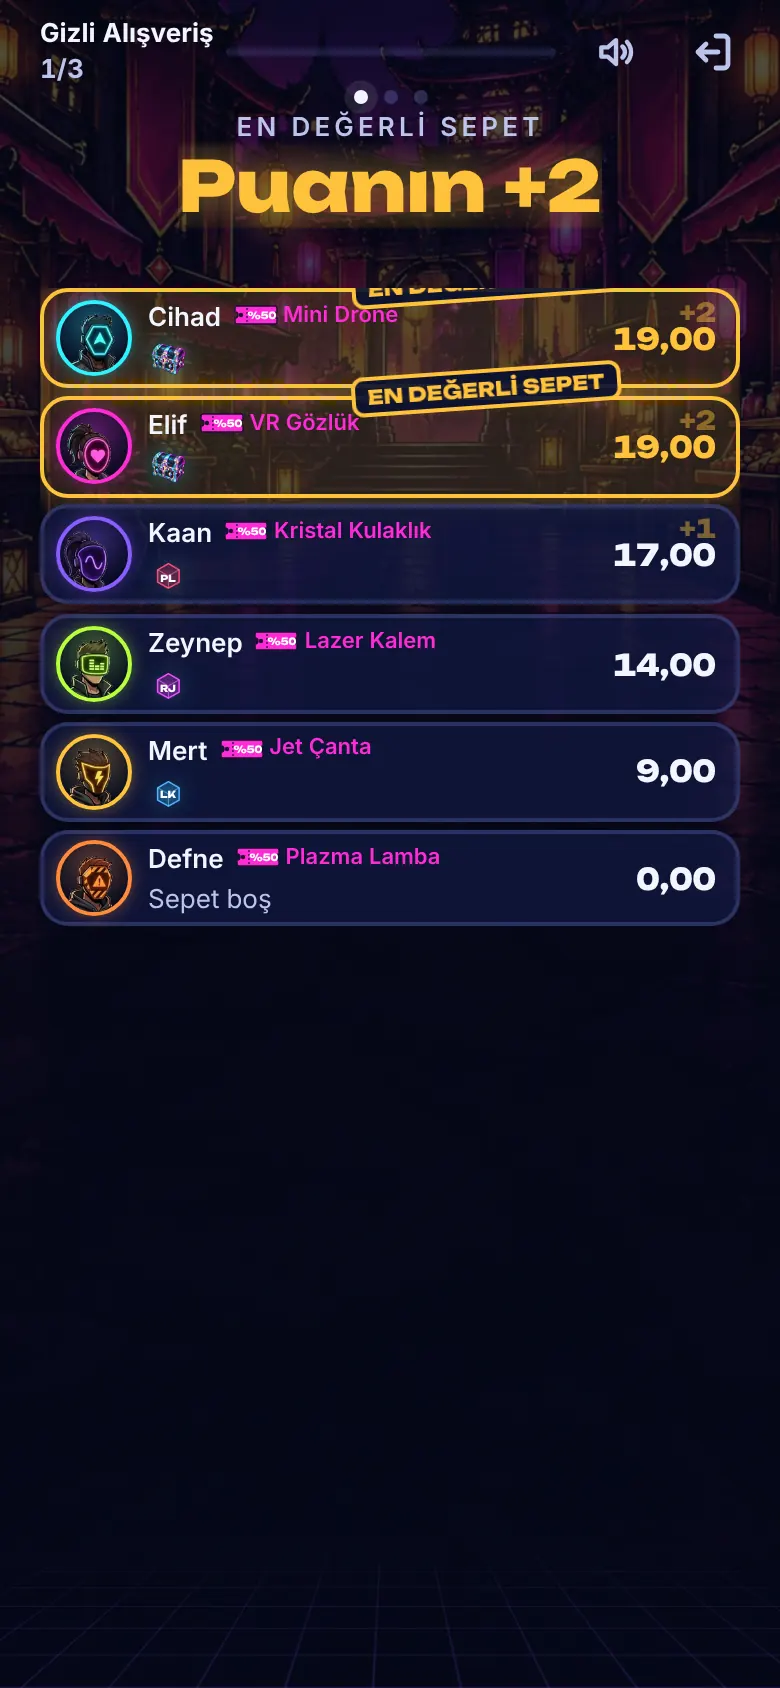
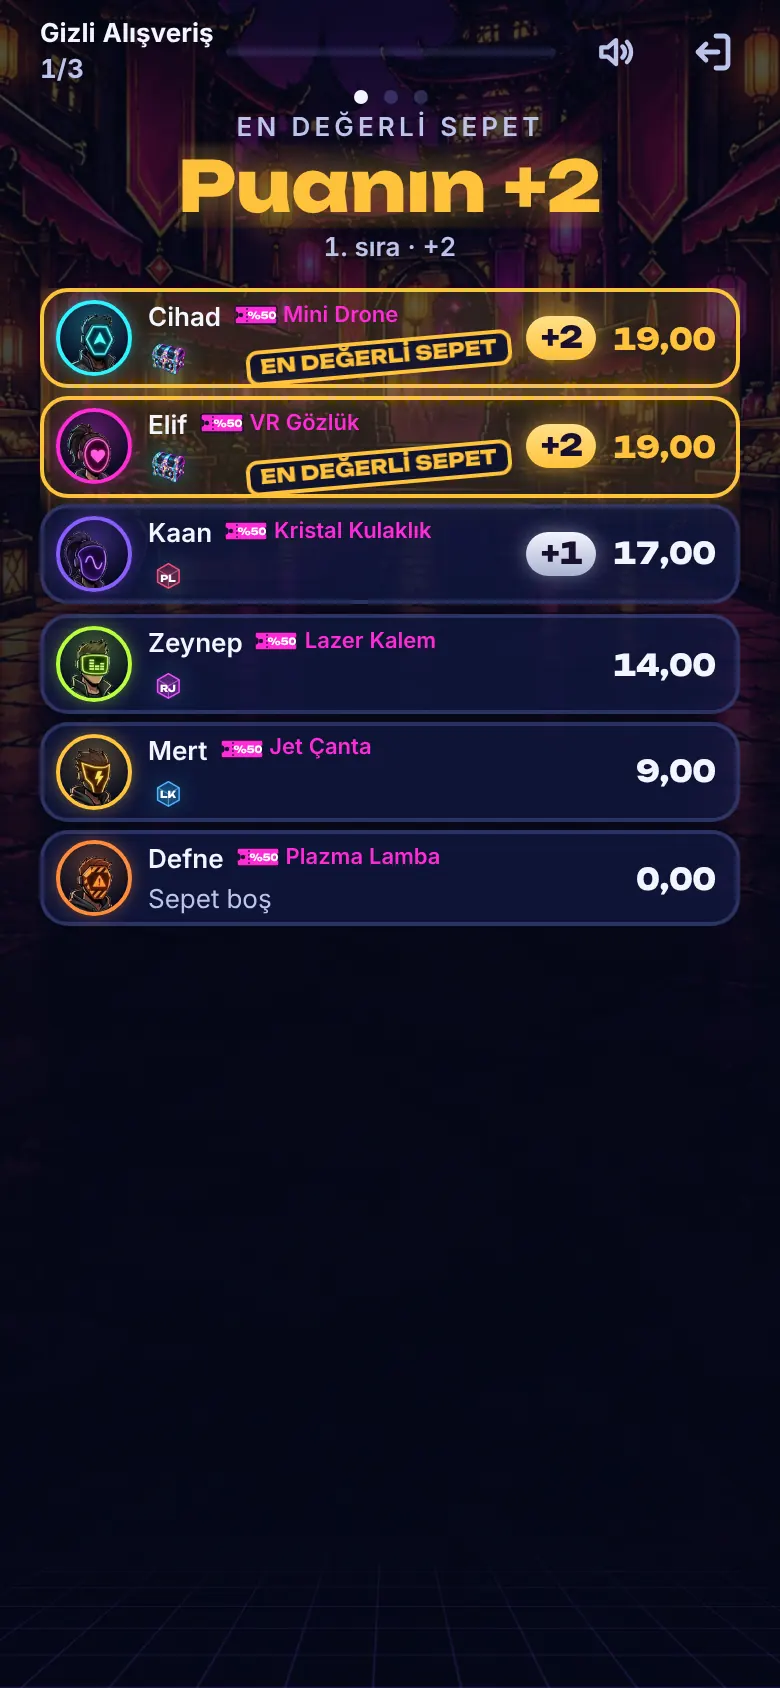
Gizli Alışveriş sonucu: okunur damga, puan rozetleri, kendi sıran
- "EN DEĞERLİ SEPET" damgası satırın içinde, ürünlerin yanında (değerin solunda); kırpılmaz, yazıları örtmez
- Satırda puan rozeti: +2 altın, +1 gümüş, 0 için boş; puan uçuşundan sonra da net
- Üst başlığın altında kendi sıran ve puanın ("4. sıra · puan yok" / "1. sıra · +2")
- Sonuç wiki ekran görüntüleri yenilendi

Claude-Session: https://claude.ai/code/session_01Seery4hrxKSJhpe6D1b9KA

Changed region(s): [[0.3077, 0.1232, 0.8, 0.3697], [0.8923, 0.154, 0.9231, 0.2773], [0.8, 0.3081, 0.9231, 0.3389]]

diff --git a/apps/client/src/games/gizli-alisveris/gizli-alisveris.css b/apps/client/src/games/gizli-alisveris/gizli-alisveris.css
@@ -188,6 +188,11 @@ button.aitem:active:not(:disabled) {
   line-height: 1.2;
   animation: a-pop 320ms var(--ease) both;
 }
+.ares__sub {
+  font-size: var(--fs-13);
+  font-weight: 600;
+  color: var(--text-dim);
+}
 .ares__val[data-k="gold"] {
   color: var(--gold);
   text-shadow: 0 0 22px rgba(255, 194, 59, 0.7);
@@ -328,14 +333,6 @@ button.aitem:active:not(:disabled) {
   font-variant-numeric: tabular-nums;
 }
 .arow[data-win="1"] .arow__val {
-  color: var(--gold);
-}
-.arow__pts {
-  position: absolute;
-  right: 0;
-  top: -12px;
-  font-style: normal;
-  font-size: var(--fs-13);
   color: var(--gold);
 }
 @keyframes a-row {
@@ -1124,35 +1121,59 @@ button.aitem:active:not(:disabled) {
   background: var(--magenta);
   border: 1px solid #1a1030;
 }
-.garow__pts[data-fly="1"] {
-  opacity: 0.45;
+/* Puan rozeti: +2 altın, +1 gümüş; 0 için boş yer (değerler hizalı kalır). */
+.garow__badge {
+  flex: none;
+  display: inline-flex;
+  justify-content: center;
+  min-width: 34px;
+}
+.garow__badge b {
+  padding: 2px 7px;
+  border-radius: 999px;
+  font-family: var(--font-display);
+  font-size: var(--fs-15);
+  font-weight: 800;
+  line-height: 1.2;
+  color: #1a1030;
+  animation: ga-drop 360ms cubic-bezier(0.3, 1.4, 0.5, 1) both;
+}
+.garow__badge[data-p="2"] b {
+  background: linear-gradient(180deg, #ffe08a, var(--gold));
+  box-shadow: 0 0 12px rgba(255, 194, 59, 0.6);
+}
+.garow__badge[data-p="1"] b {
+  background: linear-gradient(180deg, #f3f5ff, #aab3d0);
+  box-shadow: 0 0 10px rgba(200, 210, 240, 0.45);
+}
+/* "EN DEĞERLİ SEPET" damgası: satırın içinde, ürünlerin yanında (değerin solunda), eğik; hiçbir yazıyı örtmez. */
+.arow__items {
+  align-items: center;
 }
 .garow__stamp {
-  position: absolute;
-  z-index: 1;
-  left: 64%;
-  top: 0;
-  padding: 1px 6px;
+  flex: none;
+  margin-left: auto;
+  padding: 1px 5px;
   border: 2px solid var(--gold);
   border-radius: 6px;
   color: var(--gold);
   font-family: var(--font-display);
   font-weight: 800;
   font-size: 10px;
+  line-height: 1.15;
   white-space: nowrap;
-  pointer-events: none;
-  background: rgba(10, 16, 48, 0.92);
-  transform: translate(-50%, -78%) rotate(-4deg);
+  background: rgba(10, 16, 48, 0.85);
+  transform: rotate(-5deg);
   animation: ga-stamp-row 360ms cubic-bezier(0.3, 1.5, 0.5, 1) both;
 }
 @keyframes ga-stamp-row {
   from {
     opacity: 0;
-    transform: translate(-50%, -78%) rotate(-4deg) scale(1.8);
+    transform: rotate(-5deg) scale(1.8);
   }
   to {
     opacity: 1;
-    transform: translate(-50%, -78%) rotate(-4deg) scale(1);
+    transform: rotate(-5deg) scale(1);
   }
 }
 .gaconfetti {

diff --git a/apps/client/src/games/gizli-alisveris/AlisverisSonuc.tsx b/apps/client/src/games/gizli-alisveris/AlisverisSonuc.tsx
@@ -117,6 +117,14 @@ export function AlisverisSonuc(props: Props) {
     }),
   );
 
+  /** Kendi sıran (eşit değerler aynı sırayı paylaşır) ve puanın: "2. sıra · +1" / "4. sıra · puan yok". */
+  const mySub = (): string | null => {
+    if (stage() < 3 || props.spectator || !inGame()) return null;
+    const mine = r().values[props.selfId] ?? 0;
+    const rank = 1 + desc().filter((id) => (r().values[id] ?? 0) > mine).length;
+    return `${rank}. sıra · ${myPoints() > 0 ? `+${myPoints()}` : "puan yok"}`;
+  };
+
   const head = (): { label: string; value: string; kind: string } => {
     const s = stage();
     if (s === 0) return { label: "Raf kepengi", value: "Açılıyor", kind: "n" };
@@ -152,6 +160,7 @@ export function AlisverisSonuc(props: Props) {
         >
           {head().value}
         </span>
+        <Show when={mySub()}>{(t) => <span class="ares__sub">{t()}</span>}</Show>
       </div>
 
       <Show
@@ -256,26 +265,25 @@ export function AlisverisSonuc(props: Props) {
                           )}
                         </For>
                       </Show>
+                      <Show when={open() && win()}>
+                        <span class="garow__stamp">EN DEĞERLİ SEPET</span>
+                      </Show>
                     </span>
                   </span>
-                  <span class="arow__val">
-                    {open() ? formatKredi(r().values[id] ?? 0) : "?"}
+                  <span class="garow__badge" data-p={open() ? pts() : 0}>
                     <Show when={open() && pts() > 0}>
-                      <em
-                        class="arow__pts garow__pts"
-                        data-fly={stage() >= 3 ? "1" : undefined}
+                      <b
                         ref={(el) => {
                           chipEls.set(id, el);
                         }}
                       >
                         +{pts()}
-                      </em>
+                      </b>
+                      <span class="sr-only"> puan</span>
                     </Show>
                   </span>
+                  <span class="arow__val">{open() ? formatKredi(r().values[id] ?? 0) : "?"}</span>
                   <Show when={open() && win()}>
-                    <span class="garow__stamp" aria-hidden="true">
-                      EN DEĞERLİ SEPET
-                    </span>
                     <span class="gaconfetti" aria-hidden="true">
                       <i />
                       <i />
